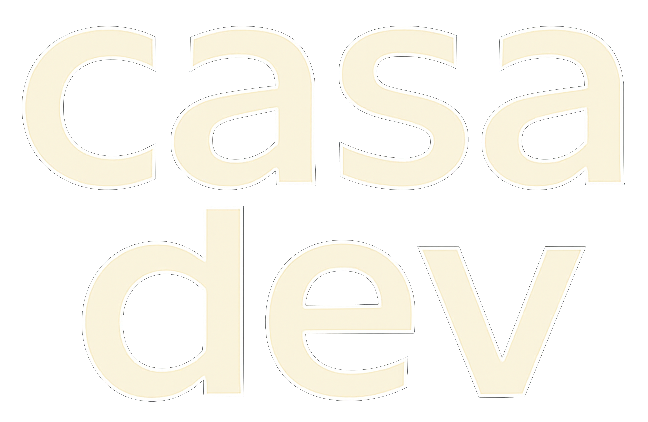
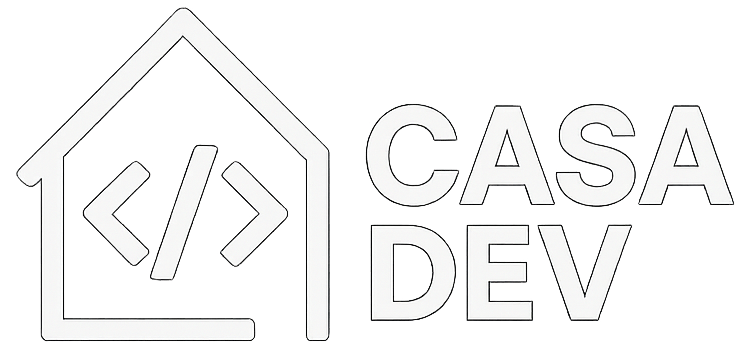
main

diff --git a/src/components/home-main.jsx b/src/components/home-main.jsx
@@ -172,8 +172,8 @@ export default function HomeMain() {
       {/* Hero Section */}
       <section className="Home_welcome__aWiKA" data-scroll-section>
         <div className="Home_container__97eC3">
-          <div data-scroll="" className="svg-mask cfadeinup-hero">
-            <h1 className="!text-5xl uppercase font-black leading-[1.2] mb-5 break-words text-transparent bg-clip-text bg-gradient-to-r from-[#0e96ee] via-[#4eebd5] via-[#fdd68d] to-[#fb8c61] tracking-[-0.025em]">
+          <div data-scroll="" className="svg-mask cfadeinup-hero !max-w-2xl">
+            <h1 className="!text-4xl uppercase font-black leading-[1.2] mb-5 break-words text-transparent bg-clip-text bg-gradient-to-r from-[#0e96ee] via-[#4eebd5] via-[#fdd68d] to-[#fb8c61] tracking-[-0.025em]">
               Web & App Development for Growing Businesses
             </h1>
             <span className="welcome_h3_role" data-scroll data-scroll-speed="0">
@@ -194,7 +194,7 @@ export default function HomeMain() {
         </div>
       </section>
 
-      <section className="bg-gray-900 text-white py-16 px-6 md:px-12 overflow-hidden relative">
+      <section className=" text-white py-16 px-6 md:px-12 overflow-hidden relative">
 
   {/* Content container */}
   <div className="max-w-6xl mx-auto relative z-10">
@@ -245,7 +245,7 @@ export default function HomeMain() {
       <div className="rounded-xl overflow-hidden shadow-2xl border border-gray-700 relative group">
         <div className="absolute inset-0 bg-gradient-to-t from-black to-transparent opacity-70 z-10"></div>
         <img
-          src="https://safestreetsmap.com/_next/image?url=%2Fmap.jpg&w=3840&q=90"
+          src="./images/map.webp"
           alt="Screenshot of Safe Streets Map application"
           className="w-full h-auto object-cover transition-transform duration-700 group-hover:scale-105"
         />

diff --git a/src/components/home-follow.js b/src/components/home-follow.js
@@ -18,7 +18,7 @@ export default function HomeFollow() {
         <div className="logo">
           <Link href="/">
           <Image
-        src="/images/casa-dev.webp" // Path relative to the public folder
+        src="/images/logo.webp" // Path relative to the public folder
         alt="Casa Dev"
         width={100}
         height={50}

diff --git a/src/app/global-custums.scss b/src/app/global-custums.scss
@@ -390,7 +390,6 @@ img {
 .Home_welcome__aWiKA {
   position: relative;
   min-height: 900px;
-  background: #16171aab;
   position: relative;
   z-index: 2;
   width: 100%;
@@ -438,7 +437,6 @@ img {
     min-height: 100vh;
     padding-top: 180px;
     width: 100%;
-    background: rgb(0 0 0 / 58%);
   }
 }
 

diff --git a/README.md b/README.md
@@ -25,5 +25,4 @@ cd var/www/html
 npm install
 npm run build
 pm2 restart 0
-
 npx next-sitemap
